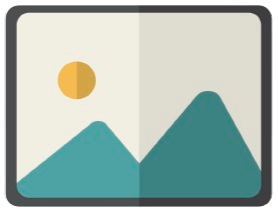
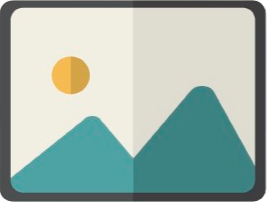
Fixed layout for the file input + aome changes in PHP so now it finally works in editEvent too

diff --git a/CSS/add_edit_event.css b/CSS/add_edit_event.css
@@ -52,9 +52,6 @@ form {
 }
 
 .group > div {
-  /* display: flex;
-  align-items: flex-end;
-  flex-wrap: wrap; */
   display: flex;
   /* flex-direction: column; */
   justify-content: flex-end; /* Keeps inputs aligned at the bottom */
@@ -74,18 +71,22 @@ form {
 
 input,
 textarea,
-select,
-.fileInputField {
+select {
+  height: 50px;
   width: 100%;
   box-sizing: border-box;
   flex-grow: 1;
   min-width: 0;
 
-  height: 50px;
   padding: 1em;
 
   font-family: inherit;
+}
 
+input,
+textarea,
+select,
+.fileInputField {
   border-radius: var(--border-radius);
   border: 3px solid var(--base-color);
   background-color: var(--cinema-whiteish);
@@ -147,17 +148,14 @@ form button:hover {
 
 /* div for image input */
 .fileInputField {
-  display: flex;
-  flex-flow: column;
-  height: fit-content;
+  display: block;
+  height: max-content;
   padding: 0px;
 }
-.fileInputField input {
-  width: 50%;
-}
 .fileInputField img {
-  width: 40%;
-  padding: 16px;
+  display: block;
+  height: 220px;
+  margin-top: 16px;
   padding-top: 0px;
 }
 .fileInputField label {
@@ -166,12 +164,4 @@ form button:hover {
 }
 .fileInputField label:hover {
   cursor: pointer;
-}
-/* file input */
-.eventPictureInput {
-  border: 0px;
-}
-
-/*
-select {
 }

diff --git a/editEvent.php b/editEvent.php
@@ -1,6 +1,7 @@
 <?php 
     $pageTitle = "EditEvent";
     $extraCSS = "CSS/add_edit_event.css";
+    $extraJS = "JavaScript/addEvent.js";
     include 'include/header.php'; 
 ?>
 <main class="editEvent_page">
@@ -23,68 +24,68 @@
                         } ?>
                             <input type="hidden" name="id" value="<?=$row['id'];?>" />  <!-- id (id doesn't have to be changed, it's here only to save it's value) -->
                             <!-- - - - HTML - - - -->
-                                <div class="name-age group"> 
-                                    <div> <!-- Название -->
-                                        <label for="name-input"></label> 
-                                        <input type="text" id="name-input" name="name" value="<?=htmlspecialchars($row['event_name']);?>" required minlength="2">
-                                    </div>
-                                    <div class="dropdown"> <!-- Age limit -->
-                                        <label for="ageLimit-input"></label> 
-                                        <select id="ageLimit-input" name="ageLimit">
-                                            <option value="Ei luokiteltu" <?= $ageLimit == 'option3' ? 'selected' : '' ?>>Ei luokiteltu</option>
-                                            <option value="S" <?= $ageLimit == 'option3' ? 'selected' : '' ?>>S</option>
-                                            <option value="K7" <?= $ageLimit == 'option3' ? 'selected' : '' ?>>K7</option>
-                                            <option value="K12" <?= $ageLimit == 'option3' ? 'selected' : '' ?>>K12</option>
-                                            <option value="K16" <?= $ageLimit == 'option3' ? 'selected' : '' ?>>K16</option>
-                                            <option value="K18" <?= $ageLimit == 'option3' ? 'selected' : '' ?>>K18</option>
-                                        </select>
-                                    </div>
+                            <div class="name-age group"> 
+                                <div> <!-- Название -->
+                                    <label for="name-input"></label> 
+                                    <input type="text" id="name-input" name="name" value="<?=htmlspecialchars($row['event_name']);?>" required minlength="2">
                                 </div>
-
-                                <div> <!-- Описание -->
-                                    <label for="description-input"></label> 
-                                    <textarea type="text" id="description-input" name="description" required><?=htmlspecialchars($row['description']);?></textarea>
+                                <div class="dropdown"> <!-- Age limit -->
+                                    <label for="ageLimit-input"></label> 
+                                    <select id="ageLimit-input" name="ageLimit">
+                                        <option value="Ei luokiteltu" <?= $ageLimit == 'option3' ? 'selected' : '' ?>>Ei luokiteltu</option>
+                                        <option value="S" <?= $ageLimit == 'option3' ? 'selected' : '' ?>>S</option>
+                                        <option value="K7" <?= $ageLimit == 'option3' ? 'selected' : '' ?>>K7</option>
+                                        <option value="K12" <?= $ageLimit == 'option3' ? 'selected' : '' ?>>K12</option>
+                                        <option value="K16" <?= $ageLimit == 'option3' ? 'selected' : '' ?>>K16</option>
+                                        <option value="K18" <?= $ageLimit == 'option3' ? 'selected' : '' ?>>K18</option>
+                                    </select>
                                 </div>
-                                <div> <!-- Фото -->
-                                    <label for="eventPicture-input"> Tapahtuman kuva </label> <br>
-                                    <div class="fileInputField">
-                                        <?= "<img src='kuvat/tapahtumaKuvat/".$picture."' alt='Uploaded Image'>"; ?>
-                                        <input type="file" class="eventPictureInput" id="eventPicture-input" name="eventPicture" value="<?=htmlspecialchars($row['event_image']);?>">
-                                    </div>
-                                </div>
-
-                                <div class="type-place group dropdown"> 
-                                    <div class="dropdown"> <!-- Type -->
-                                        <label for="eventType-input"></label> 
-                                        <select id="eventType-input" name="eventType" required>
-                                            <option value="option1" <?= $eventType == 'option1' ? 'selected' : '' ?>>Elokuvaesitys</option>
-                                            <option value="option2" <?= $eventType == 'option2' ? 'selected' : '' ?>>Tapahtuma, jossa on rajattu osalisujamäärä</option>
-                                            <option value="option3" <?= $eventType == 'option3' ? 'selected' : '' ?>>Tapahtuma, jossa on rajaton osalisujamäärä</option>
-                                        </select>
-                                    </div>
-                                    <div> <!-- Place -->
-                                        <label for="maxplaces-input">Max. osallistujamäärä: </label> <br>
-                                        <input type="text" id="maxplaces-input" name="maxplaces" value="<?=htmlspecialchars($row['max_visitors']);?>" required>
-                                    </div>
-                                </div>
-
-                                <div> <!-- Adress -->
-                                    <label for="adress-input"></label> 
-                                    <input type="text" id="adress-input" name="adress" value="<?=htmlspecialchars($row['location']);?>" autocomplete="street-address" required>
-                                </div>
-                                <div class="date-time group">
-                                    <div> <!-- Date -->
-                                        <label for="date-input"></label>
-                                        <input type="date" id="date-input" name="date" value="<?=$row['event_date'];?>" required>
-                                    </div>
-                                    <div> <!-- Time -->
-                                        <label for="time-input"></label>
-                                        <input type="time" id="time-input" name="time" value="<?=$row['event_time'];?>"required>
-                                    </div>
-                                </div>
-
-                                <button type="submit">Lähetä</button>
                             </div>
+
+                            <div> <!-- Описание -->
+                                <label for="description-input"></label> 
+                                <textarea type="text" id="description-input" name="description" required><?=htmlspecialchars($row['description']);?></textarea>
+                            </div>
+                            
+                            <div class="fileInputField"> <!-- Фото -->
+                                <label for="eventPicture-input"> Tapahtuman kuva 
+                                    <input type="file" id="eventPicture-input" name="eventPicture" hidden>  <!-- input-field for the image. It's accessed through the label but it cannot contain information about the previous image-->
+                                    <input type="hidden" name="current_image" value="<?= htmlspecialchars($row['event_image']); ?>">  <!-- ..so here is another input -->
+                                    <?= "<img id='preview' src='kuvat/tapahtumaKuvat/".$picture."' alt='Uploaded Image'>"; ?>
+                                </label>
+                            </div>
+
+                            <div class="type-place group dropdown"> 
+                                <div class="dropdown"> <!-- Type -->
+                                    <label for="eventType-input"></label> 
+                                    <select id="eventType-input" name="eventType" required>
+                                        <option value="option1" <?= $eventType == 'option1' ? 'selected' : '' ?>>Elokuvaesitys</option>
+                                        <option value="option2" <?= $eventType == 'option2' ? 'selected' : '' ?>>Tapahtuma, jossa on rajattu osalisujamäärä</option>
+                                        <option value="option3" <?= $eventType == 'option3' ? 'selected' : '' ?>>Tapahtuma, jossa on rajaton osalisujamäärä</option>
+                                    </select>
+                                </div>
+                                <div> <!-- Place -->
+                                    <label for="maxplaces-input">Max. osallistujamäärä: </label> <br>
+                                    <input type="number" id="maxplaces-input" name="maxplaces" value="<?=htmlspecialchars($row['max_visitors']);?>" required>
+                                </div>
+                            </div>
+
+                            <div> <!-- Adress -->
+                                <label for="adress-input"></label> 
+                                <input type="text" id="adress-input" name="adress" value="<?=htmlspecialchars($row['location']);?>" autocomplete="street-address" required>
+                            </div>
+                            <div class="date-time group">
+                                <div> <!-- Date -->
+                                    <label for="date-input"></label>
+                                    <input type="date" id="date-input" name="date" value="<?=$row['event_date'];?>" required>
+                                </div>
+                                <div> <!-- Time -->
+                                    <label for="time-input"></label>
+                                    <input type="time" id="time-input" name="time" value="<?=$row['event_time'];?>"required>
+                                </div>
+                            </div>
+
+                            <button type="submit">Lähetä</button>
                             
                             <!-- - - - END - - - -->
                         <?php endwhile ?>
@@ -111,14 +112,21 @@
 
                 $types = "sissssssii"; // i = int, s = string (must match order!)
                 
-                /* picture handling */
-                $uploadFileName = ""; // default if no file uploaded
+                /* picture handling -- old version */
+                /* $uploadFileName = ""; // default if no file uploaded
                 if (!empty($_FILES['eventPicture']['name'])) {
                     $uploadDir = "uploads/"; // folder where files are saved
                     $uploadFileName = basename($_FILES['eventPicture']['name']); // only the file name
-                    /* $uploadPath = $uploadDir . $uploadFileName; // full path to save the file
+                     $uploadPath = $uploadDir . $uploadFileName; // full path to save the file
 
-                    move_uploaded_file($_FILES['eventPicture']['tmp_name'], $uploadPath); */
+                    move_uploaded_file($_FILES['eventPicture']['tmp_name'], $uploadPath); 
+                } */
+                $currentImage = $_POST['current_image'];
+                if (!empty($_FILES['eventPicture']['name'])) {
+                    $newImage = $_FILES['eventPicture']['name'];
+                    move_uploaded_file($_FILES['eventPicture']['tmp_name'], "kuvat/tapahtumaKuvat/".$newImage);
+                } else {
+                    $newImage = $currentImage;
                 }
 
                 /* parameters for prepared statement */
@@ -127,7 +135,7 @@
                     (int)$_POST['eventType'],
                     $_POST['date'],
                     $_POST['time'],
-                    $uploadFileName,
+                    $newImage,
                     $_POST['description'],
                     $_POST['ageLimit'],
                     $_POST['adress'],

diff --git a/addEvent.php b/addEvent.php
@@ -40,9 +40,10 @@
 
                     <div> <!-- Фото -->
                         <div class="fileInputField">
-                            <label for="eventPicture-input"> Tapahtuman kuva </label> 
-                            <input type="file" id="eventPicture-input" name="eventPicture" hidden>
-                            <img id="preview" style="display:none; width:50%;"> <!-- preview -->
+                            <label for="eventPicture-input"> Tapahtuman kuva 
+                                <input type="file" id="eventPicture-input" name="eventPicture" hidden>
+                                <img id="preview" style="display:none; width:50%;"> <!-- preview -->
+                            </label> 
                         </div>
                     </div>
 
